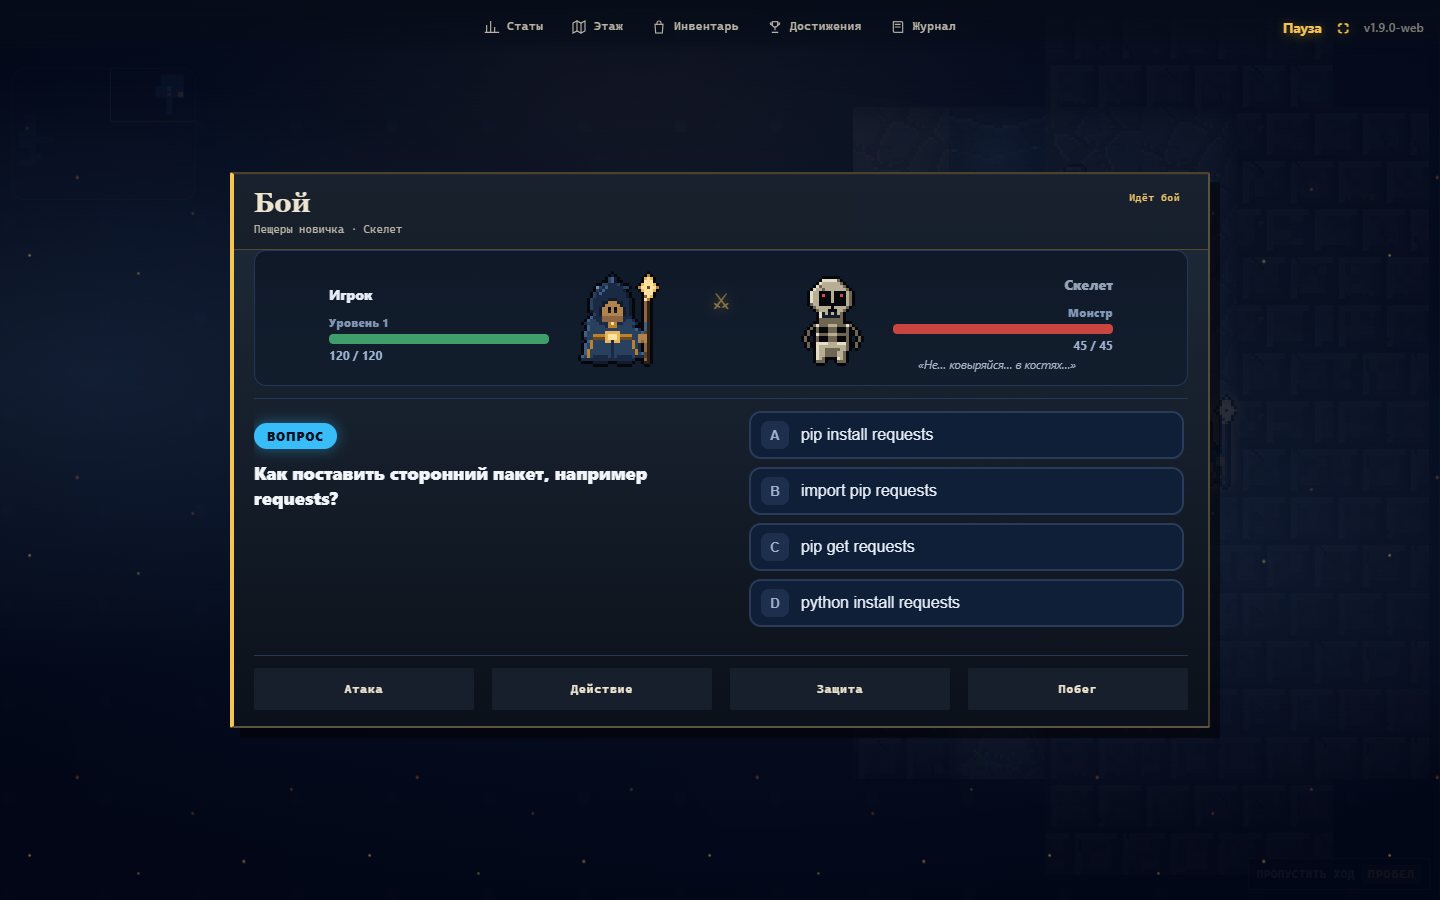
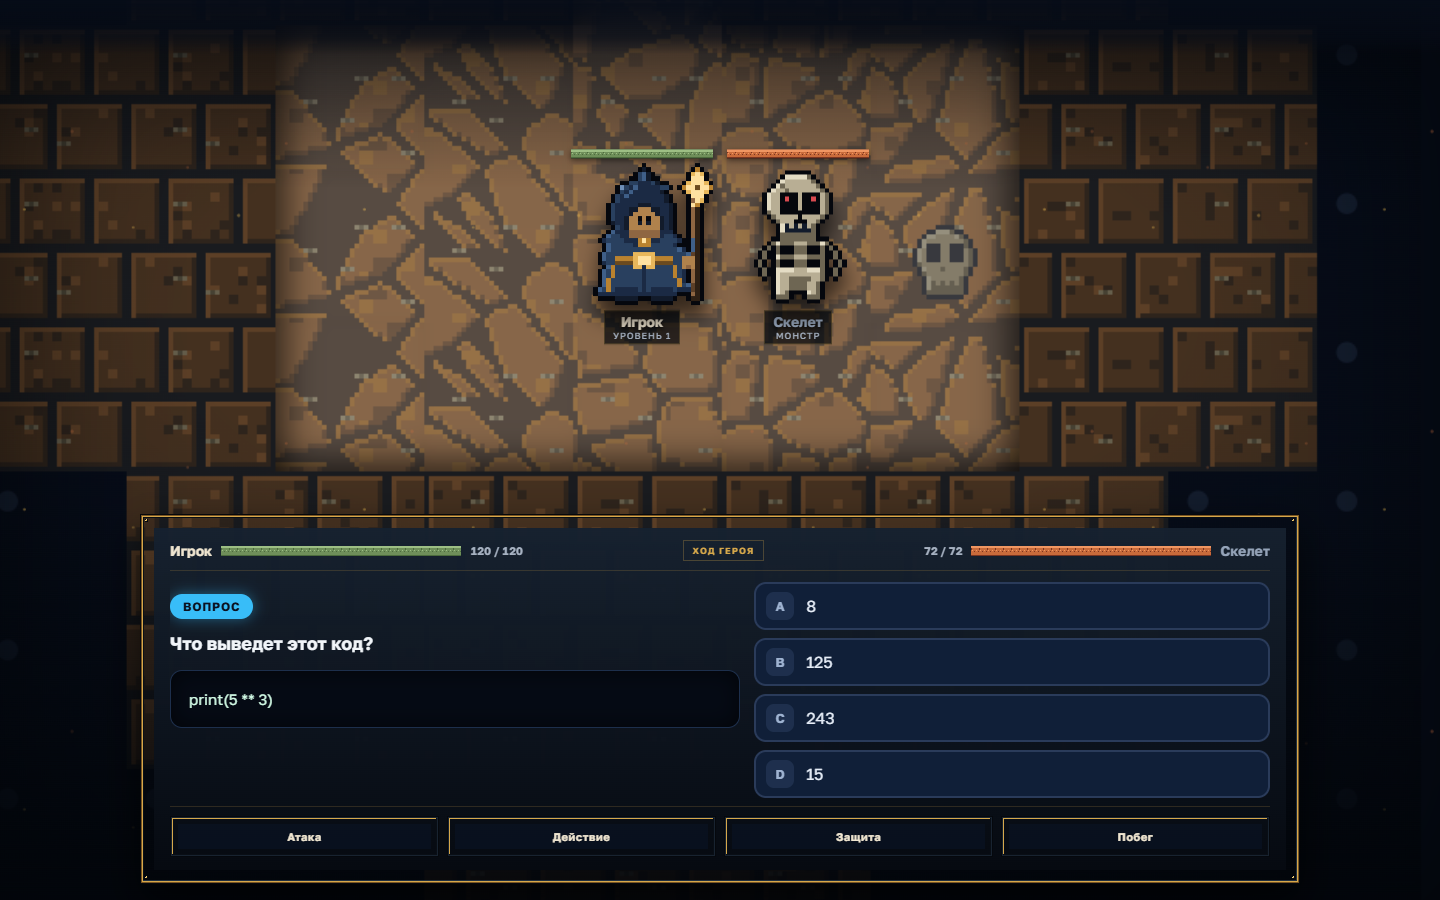
ПК: крупнее карта и бой на больших экранах

diff --git a/static/game.js b/static/game.js
@@ -3248,11 +3248,11 @@
     };
   }
 
-  // Ступени масштаба — целые кратные нарисованным 32 px: ×1, ×2, ×3.
-  // Тайлы и спрайты — пиксель-арт 32×32, и при любом другом размере клетки
-  // (раньше были 16, 48 и 80 px) пиксели выходят то в один, то в два экранных
-  // пикселя: картинка неровная и «дрожит» при ходьбе.
-  const CAM_LEVELS = [32, 64, 96];
+  // Ступени масштаба — целые кратные нарисованным 32 px: ×1…×6.
+  // На больших мониторах крупнее клетка заполняет экран и не оставляет
+  // половину поля пустой; на телефоне подходящие ступени всё равно
+  // выбираются по размеру окна.
+  const CAM_LEVELS = [32, 64, 96, 128, 160, 192];
   // Старые сохранения хранят номер ступени прежней шкалы.
   const LEGACY_CAM_LEVELS = [16, 32, 48, 64, 80, 96];
 
@@ -3322,7 +3322,15 @@
       ? battleFocusPoint()
       : null;
     if (focus) {
-      const z = lightBattleCamera() ? 1 : BATTLE_ZOOM;
+      const zi = G.camera.zoomIndex == null ? defaultZoomIndex() : G.camera.zoomIndex;
+      const cellPx = CAM_LEVELS[clamp(zi, 0, CAM_LEVELS.length - 1)] || 96;
+      const z = lightBattleCamera()
+        ? 1
+        : cellPx >= 192
+        ? 1.2
+        : cellPx >= 160
+        ? 1.3
+        : BATTLE_ZOOM;
       const fx = m.pad + focus.x * m.step + m.cell / 2;
       const fy = m.pad + focus.y * m.step + m.cell / 2;
       // Панель с вопросом занимает низ экрана: пару держим в свободной
@@ -10109,6 +10117,17 @@ function topicName(key) {
   // ---------- Обновления ----------
   // Короткая лента новостей для главного меню. Новые записи — сверху.
   const UPDATES = [
+    {
+      version: "1.9.6",
+      date: "28 октября 2026",
+      title: "ПК: большие экраны",
+      items: [
+        "На мониторах 2560 px карта стала крупнее: больше не остаётся половина пустого поля.",
+        "Панель боя, варианты ответа и портреты масштабируются под большой экран, а зум боя стал мягче.",
+        "Лендинг и главное меню шире раскрываются на больших разрешениях.",
+        "Скриншот боя на лендинге обновлён под новое окно боя."
+      ]
+    },
     {
       version: "1.9.5",
       date: "28 октября 2026",

diff --git a/static/game.css b/static/game.css
@@ -9310,3 +9310,130 @@ body.battling .battle-panel .squad-note {
     display: none;
   }
 }
+
+/* Большие мониторы: панель и бойцы не должны выглядеть игрушечными
+   на 1920–2560 px. */
+@media (min-width: 1600px) {
+  body.battling .battle-panel {
+    width: min(1360px, 84vw);
+    max-height: min(66vh, 760px);
+    padding: 15px 22px;
+  }
+
+  body.battling .battle-panel .battle-panel-top {
+    gap: 20px;
+  }
+
+  body.battling .battle-panel .combatant .name {
+    font-size: 16px;
+  }
+
+  body.battling .battle-panel .combatant .num {
+    font-size: 13px;
+  }
+
+  body.game-page .battle-panel .combatant .hp-bar {
+    height: 12px;
+    width: clamp(180px, 18vw, 280px);
+  }
+
+  body.battling .battle-panel .round-note {
+    font-size: 10px;
+  }
+
+  body.battling .battle-panel .challenge-q {
+    font-size: 21px;
+  }
+
+  body.battling .battle-panel .option {
+    font-size: 14px;
+    min-height: 48px;
+  }
+
+  body.battling .battle-panel .battle-cat {
+    font-size: 12px;
+    min-height: 44px;
+  }
+
+  body.battling .battle-stage .battle-portrait {
+    width: 168px;
+    height: 168px;
+  }
+
+  body.battling .battle-stage .battle-portrait.boss {
+    width: 200px;
+    height: 200px;
+  }
+
+  body.battling .battle-stage .fighter-hpbar {
+    width: 168px;
+    height: 11px;
+  }
+
+  body.battling .battle-stage .fighter-tag b {
+    font-size: 16px;
+  }
+
+  body.battling .battle-stage .fighter-tag span {
+    font-size: 10px;
+  }
+}
+
+@media (min-width: 2200px) {
+  body.battling .battle-panel {
+    width: min(1660px, 82vw);
+  }
+
+  body.battling .battle-panel .challenge-q {
+    font-size: 26px;
+  }
+
+  body.battling .battle-panel .option {
+    font-size: 16px;
+    min-height: 54px;
+  }
+
+  body.battling .battle-panel .battle-cat {
+    font-size: 13px;
+    min-height: 46px;
+  }
+
+  body.battling .battle-panel .combatant .name {
+    font-size: 18px;
+  }
+
+  body.battling .battle-panel .combatant .num {
+    font-size: 15px;
+  }
+
+  body.game-page .battle-panel .combatant .hp-bar {
+    height: 14px;
+    width: clamp(200px, 19vw, 340px);
+  }
+
+  body.battling .battle-panel .round-note {
+    font-size: 11px;
+  }
+
+  body.battling .battle-stage .battle-portrait {
+    width: 200px;
+    height: 200px;
+  }
+
+  body.battling .battle-stage .battle-portrait.boss {
+    width: 236px;
+    height: 236px;
+  }
+
+  body.battling .battle-stage .fighter-hpbar {
+    width: 200px;
+  }
+
+  body.battling .battle-stage .fighter-tag b {
+    font-size: 19px;
+  }
+
+  body.battling .battle-stage .fighter-tag span {
+    font-size: 11px;
+  }
+}

diff --git a/static/menu.css b/static/menu.css
@@ -1237,3 +1237,27 @@ body.reduce-motion *::after {
     font-size: 15px;
   }
 }
+
+/* Большие мониторы: карточка меню крупнее, чтобы не теряться на 2560 px. */
+@media (min-width: 1800px) {
+  #menu-screen[data-mode="main"] .menu-view-main {
+    width: min(760px, 100%);
+    padding: 38px 40px;
+  }
+
+  #menu-screen[data-mode="main"] .menu-title h1 {
+    font-size: 66px;
+  }
+
+  .menu-logo {
+    width: 64px;
+    height: 64px;
+    border-radius: 16px;
+    font-size: 27px;
+  }
+
+  #menu-screen[data-mode="main"] .menu-item {
+    padding: 13px 16px;
+    font-size: 18px;
+  }
+}

diff --git a/static/web-boot.js b/static/web-boot.js
@@ -7,7 +7,7 @@
   "use strict";
   if (typeof window === "undefined") return;
   window.__PYQUIZ_WEB = true;
-  window.__PYQUIZ_VERSION = { version: "1.9.5-web", date: "2026-10-28", commit: "" };
+  window.__PYQUIZ_VERSION = { version: "1.9.6-web", date: "2026-10-28", commit: "" };
   window.__PYQUIZ_FEATURES = { code: true, dev: false, generatedCode: false };
 
   const saved = (typeof getLastName === "function" && getLastName()) || "Игрок";

diff --git a/standalone/index.html b/standalone/index.html
@@ -86,7 +86,7 @@
     }
 
     .wrap {
-      width: min(1180px, calc(100% - 44px));
+      width: min(calc(100% - 44px), clamp(1180px, 72vw, 1480px));
       margin: 0 auto;
     }
 
